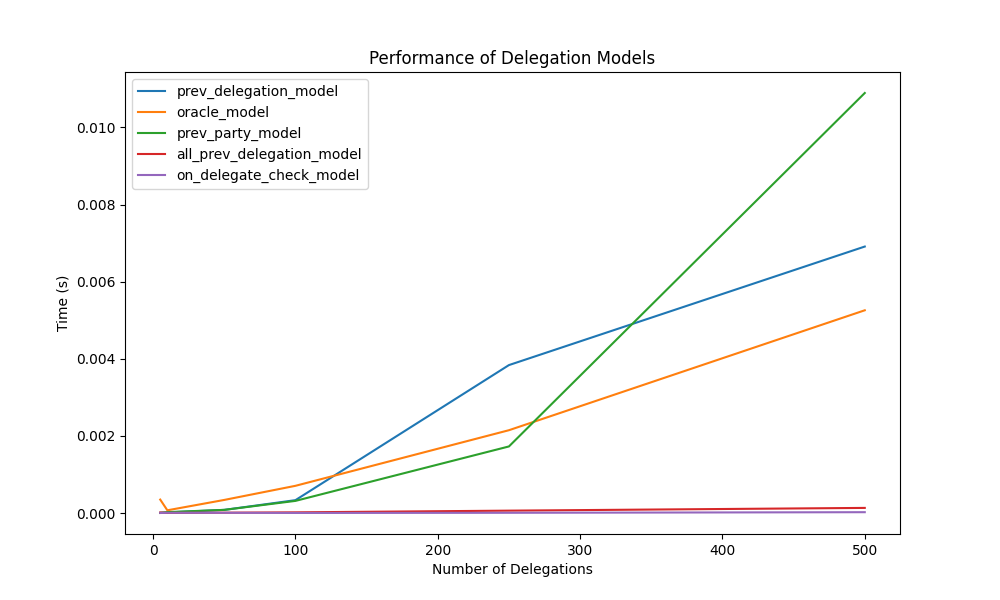
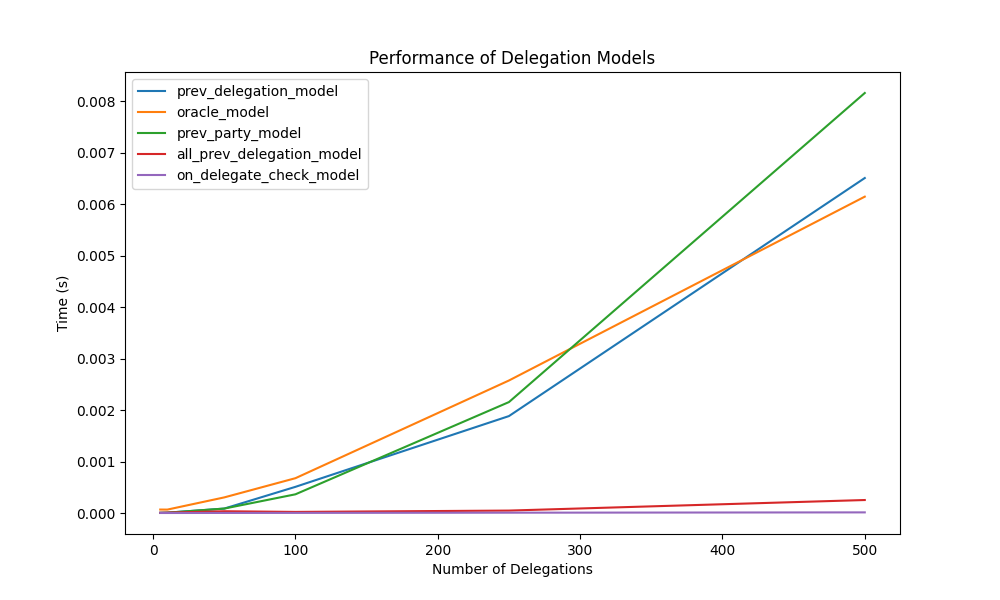
Update performance plots

diff --git a/src/tests/main.py b/src/tests/main.py
@@ -9,7 +9,7 @@ import json
 
 
 class DelegationModelTests:
-    def __init__(self, db_class, service_class, performance_time_limit=1, performance_test_count=3):
+    def __init__(self, db_class, service_class, performance_time_limit=1, performance_test_count=30):
         self.db_class = db_class
         self.service = service_class(self.db_class())
         self.performance_time_limit = performance_time_limit
@@ -49,8 +49,6 @@ class DelegationModelTests:
             if name.startswith("test_")
             and test_method not in [test for test_list in tests.values() for test in test_list]
         ]
-
-        tests = {} # TODO REMOVE
 
         results = {}
         for category, test_list in tests.items():

diff --git a/src/gen_performance_plot.py b/src/gen_performance_plot.py
@@ -90,3 +90,5 @@ if __name__ == "__main__":
     ax.set_title("Performance of Delegation Models with Related Additional Parties")
     ax.legend()
     plt.savefig("reports/performance_plot_related_additional_parties.png")
+
+    # TODO: MAYBE CREATE A THREE DIMENSIONAL PLOT inputs: num related parties, num unrelated parties, and output time

diff --git a/src/main.py b/src/main.py
@@ -18,8 +18,6 @@ if __name__ == "__main__":
     results = oracle_tester.run_tests(verbose=False)
     oracle_tester.print_test_results(results)
 
-    exit(0)
-
     # The previous party model --------------------------------
     prev_party_tester = tests.DelegationModelTests(
         database.Database, prevparty_service.PrevPartyService
